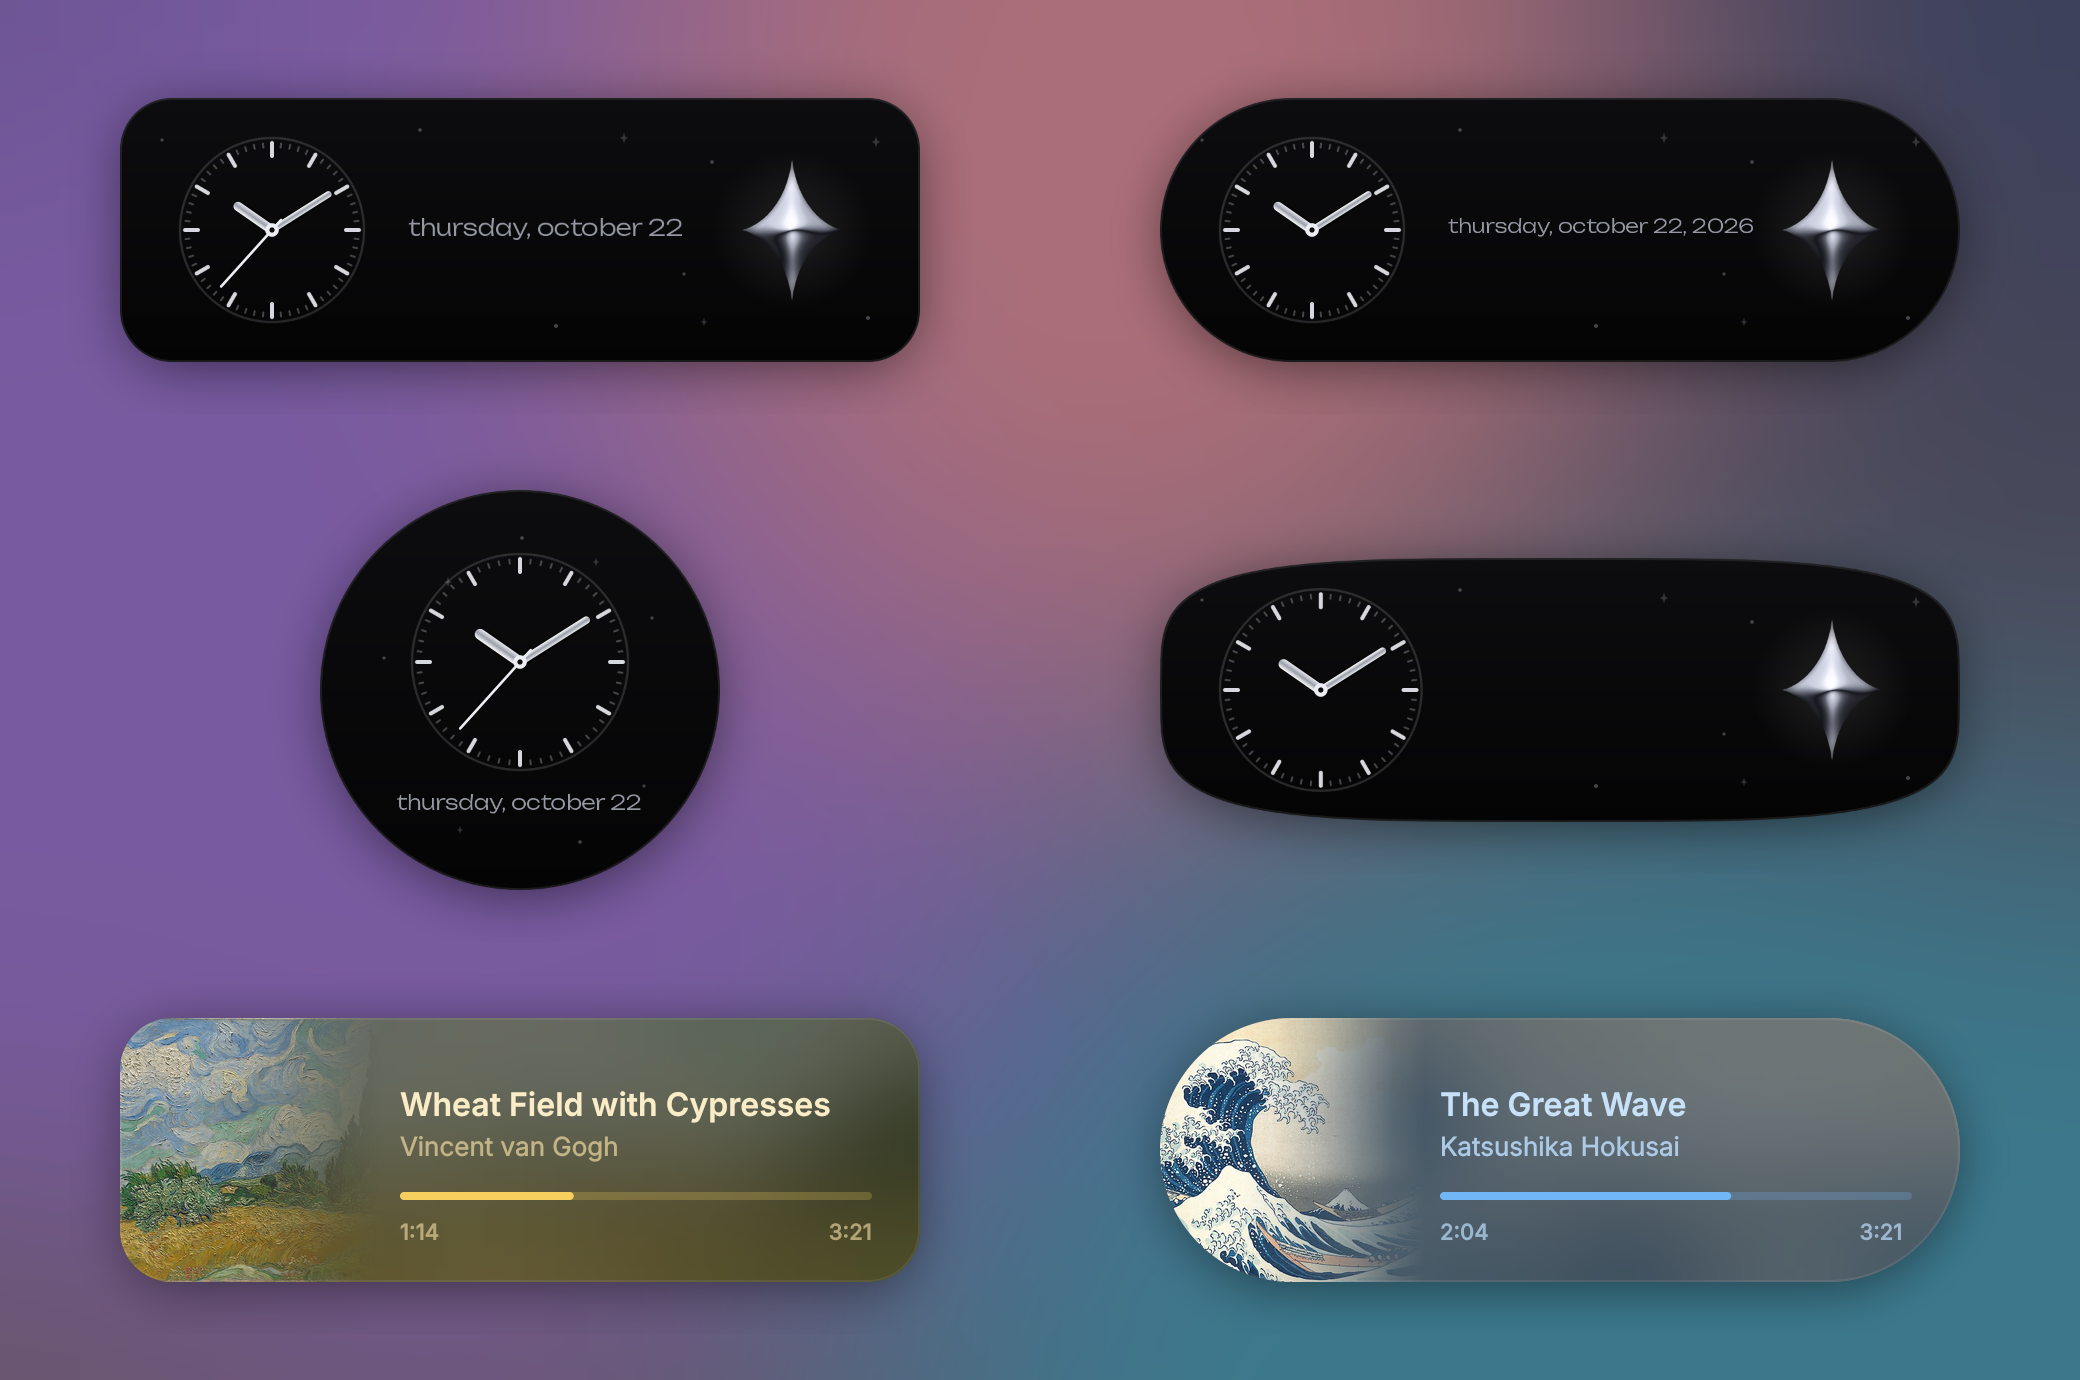
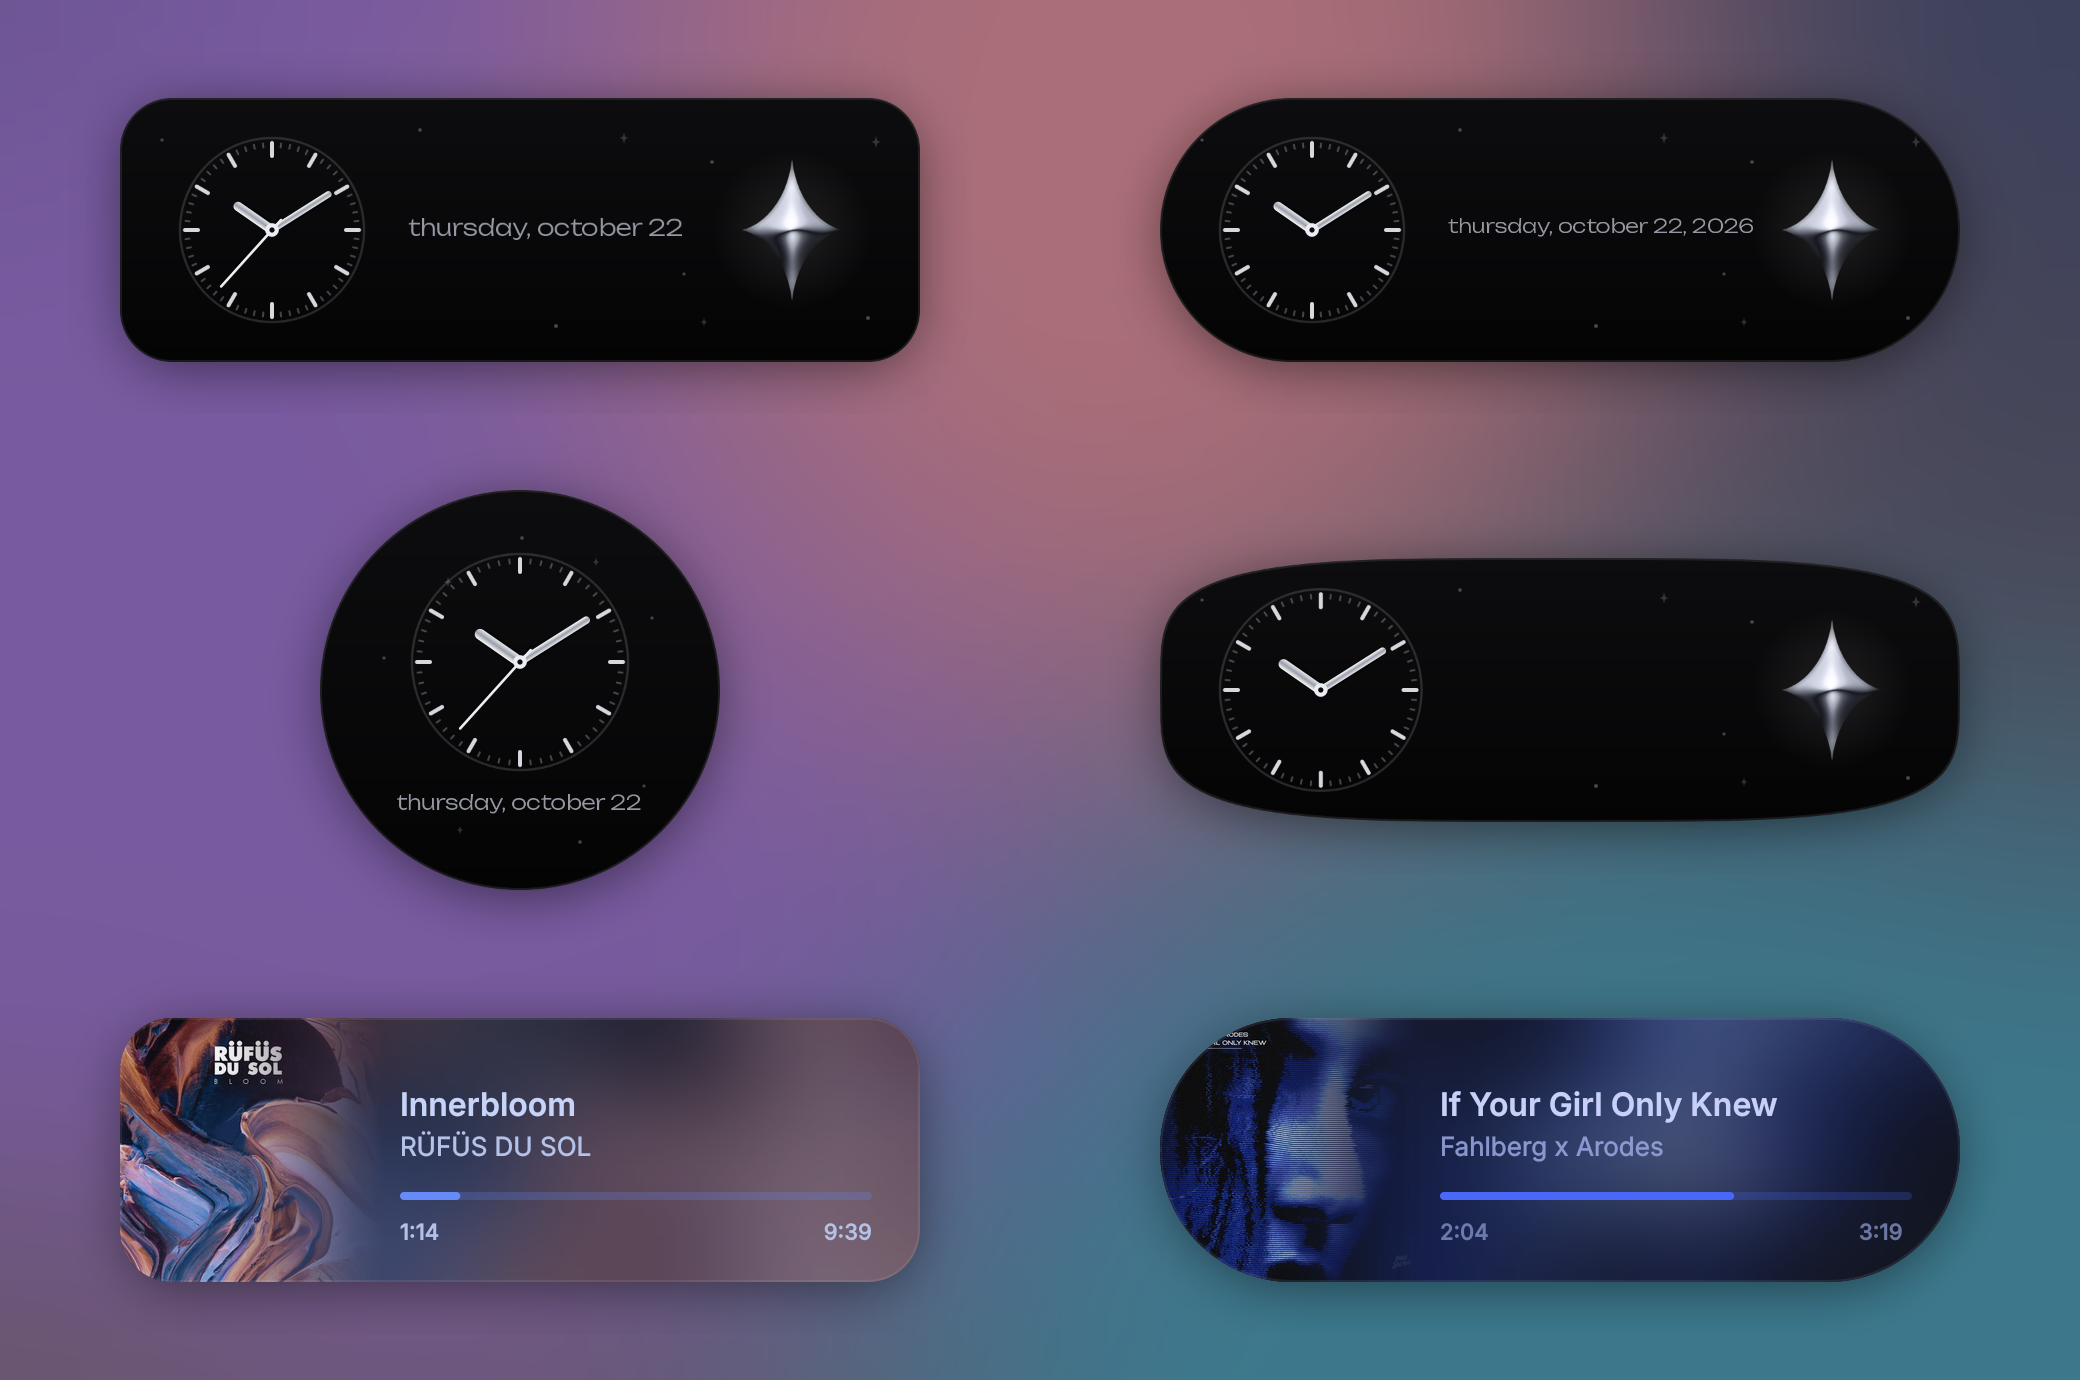
Add files via upload

Changed region(s): [[0.0312, 0.7167, 0.4688, 0.9348], [0.5312, 0.7167, 0.9688, 0.9348]]

diff --git a/bench/demo.py b/bench/demo.py
@@ -1,11 +1,12 @@
 """
 Makes the README pictures: docs/media/hero.png, docs/media/demo.gif and docs/media/shapes.png.
-Everything is drawn by the widgets' own drawing code, offscreen. The covers are public domain paintings
-from The Met (CC0). On Linux the text font is Inter, since Segoe UI is a Windows font.
+Everything is drawn by the widgets' own drawing code, offscreen. The songs are from my playlist and the album
+covers are read from data/demo/covers, which isn't in the repo. On Linux the text font is Inter, since Segoe UI
+is a Windows font.
 
     python bench/demo.py
 """
-import os, sys, io, json, math, datetime, urllib.request
+import os, sys, io, math, datetime
 
 HERE = os.path.dirname(os.path.abspath(__file__))
 ROOT = os.path.dirname(HERE)
@@ -20,59 +21,29 @@ from PyQt6.QtCore import QRectF, QPointF, QEasingCurve
 import drive
 from aura_draw import render
 
-ART = {  # Met object id: (song title shown on the card, artist line)
-    436535: ("Wheat Field with Cypresses", "Vincent van Gogh"),
-    45434: ("The Great Wave", "Katsushika Hokusai"),
-    438817: ("The Dance Class", "Edgar Degas"),
-    436947: ("Boating", "Edouard Manet"),
+ART = {  # cover file in data/demo/covers: (song title shown on the card, artist line)
+    "innerbloom": ("Innerbloom", "RÜFÜS DU SOL"),
+    "if-your-girl-only-knew": ("If Your Girl Only Knew", "Fahlberg x Arodes"),
+    "neverender": ("Neverender", "Justice & Tame Impala"),
+    "inner-light": ("Inner Light", "Elderbrook & Bob Moses"),
+    "daylight": ("Daylight (Matin Remix)", "TCTS & Hayley May"),
 }
+DUR = {"innerbloom": 579_000, "if-your-girl-only-knew": 199_000, "neverender": 267_000, "inner-light": 258_000, "daylight": 137_000}  # real lengths, ms
 DATA = os.path.join(ROOT, "data", "demo")
 OUT = os.path.join(ROOT, "docs", "media")
 
 
 def fetch():
-    os.makedirs(DATA, exist_ok=True)
-    credits = []
-    for oid in ART:
-        path = os.path.join(DATA, f"{oid}.jpg")
-        meta = json.loads(urllib.request.urlopen(
-            f"https://collectionapi.metmuseum.org/public/collection/v1/objects/{oid}", timeout=30).read())
-        assert meta["isPublicDomain"]
+    """The album covers, read from data/demo/covers/<name>.jpg. They aren't in the repo (data/ is ignored),
+    so drop your own covers there with these names before running this."""
+    covers = {}
+    for name in ART:
+        path = os.path.join(DATA, "covers", f"{name}.jpg")
         if not os.path.exists(path):
-            with open(path, "wb") as f:
-                f.write(urllib.request.urlopen(meta["primaryImageSmall"], timeout=60).read())
-        credits.append({"met_object_id": oid, "title": meta["title"], "artist": meta["artistDisplayName"],
-                        "date": meta["objectDate"], "url": meta["objectURL"], "license": "CC0, Met Open Access"})
-    with open(os.path.join(ROOT, "results", "demo_credits.json"), "w") as f:
-        json.dump(credits, f, indent=2)
-    return {oid: trimmed(os.path.join(DATA, f"{oid}.jpg")) for oid in ART}
-
-
-def trimmed(path):
-    """Some Met scans come with a black strip along one side. Cut it off, plus a hair more, so the covers
-    on the cards show painting all the way to the edge."""
-    im = Image.open(path).convert("RGB")
-    g = im.convert("L")
-    w, h = im.size
-    px = g.load()
-
-    def dark(line):
-        return sum(line) / len(line) < 40
-
-    l, t, r, b = 0, 0, w, h
-    while t < h // 4 and dark([px[x, t] for x in range(w)]):
-        t += 1
-    while b > h * 3 // 4 and dark([px[x, b - 1] for x in range(w)]):
-        b -= 1
-    while l < w // 4 and dark([px[l, y] for y in range(h)]):
-        l += 1
-    while r > w * 3 // 4 and dark([px[r - 1, y] for y in range(h)]):
-        r -= 1
-    m = max(2, int(0.006 * min(w, h)))
-    im = im.crop((l + m, t + m, r - m, b - m))
-    out = io.BytesIO()
-    im.save(out, "JPEG", quality=92)
-    return out.getvalue()
+            raise SystemExit(f"missing {path}, put the album cover there first")
+        with open(path, "rb") as f:
+            covers[name] = f.read()
+    return covers
 
 
 def wallpaper(w, h):
@@ -86,8 +57,41 @@ def wallpaper(w, h):
     return im.filter(ImageFilter.GaussianBlur(w / 12))
 
 
+def box_gif_frames(path, size=(440, 160), step=80, focus_y=0.8):
+    """Your own GIF for the box (data/demo/box.gif or box.webp), cropped to fill it the way the widget's fill mode does,
+    and resampled to one frame every 80 ms so it plays at its real speed in the demo. focus_y picks which part
+    stays in view when the height is cropped, like dragging the GIF inside the box."""
+    src = Image.open(path)
+    shots, times, t = [], [], 0
+    for i in range(getattr(src, "n_frames", 1)):
+        src.seek(i)
+        shots.append(src.convert("RGB"))
+        times.append(t)
+        d = src.info.get("duration") or 0
+        t += d if d > 10 else 100      # like browsers, a frame with no real duration shows for 100 ms
+    total = max(t, step)
+    frames = []
+    for k in range(int(total // step)):
+        j = max(i for i, s in enumerate(times) if s <= k * step)
+        im = shots[j]
+        s = max(size[0] / im.width, size[1] / im.height)
+        im = im.resize((round(im.width * s), round(im.height * s)), Image.Resampling.LANCZOS)
+        x, y = (im.width - size[0]) // 2, int((im.height - size[1]) * focus_y)
+        frames.append(im.crop((x, y, x + size[0], y + size[1])))
+    return frames
+
+
 def gif_frames(data, n=24, size=(440, 160)):
-    """A slow pan across a painting, saved as a real GIF and read back frame by frame with Qt."""
+    """A slow pan across a painting, saved as a real GIF and read back frame by frame with Qt.
+    If data/demo/box.gif (or box.webp) exists, that animation goes in the box instead."""
+    own = next((os.path.join(DATA, f) for f in ("box.gif", "box.webp") if os.path.exists(os.path.join(DATA, f))), None)
+    if own:
+        out = []
+        for im in box_gif_frames(own, size):   # straight to Qt, a GIF round trip would merge repeated frames
+            buf = io.BytesIO()
+            im.save(buf, "PNG")
+            out.append(QImage.fromData(buf.getvalue(), "PNG"))
+        return out
     im = Image.open(io.BytesIO(data)).convert("RGB")
     k = max(size[0] * 1.35 / im.width, size[1] * 1.35 / im.height)
     im = im.resize((int(im.width * k), int(im.height * k)), Image.Resampling.LANCZOS)
@@ -158,12 +162,12 @@ def main():
     card = music.Card()
     round_card = music.Card()
     round_card.set_look(music.Look({"shape": "circle"}))
-    round_track = music.Track(*ART[ids[1]], covers[ids[1]], look=round_card.look)
+    round_track = music.Track(*ART[ids[2]], covers[ids[2]], look=round_card.look)
     round_card.cur = round_track
-    round_card.dur_ms, round_card.pos_ms = 201_000, 74_000
+    round_card.dur_ms, round_card.pos_ms = DUR[ids[2]], 74_000
     ck = clock.ClockCard()
     gcard = gif.GifCard(440, 160)
-    frames = gif_frames(covers[ids[3]])
+    frames = gif_frames(covers[ids[4]])
     font = gif.pick_font(14, QFont.Weight.Medium)
     ck2 = clock.ClockCard()
     ck2.apply(dict(zip(("face", "shape", "seconds", "date"), ("analog", "pill", True, "weekday")),
@@ -187,7 +191,7 @@ def main():
             card.old, card.cur, card.t = tracks[0], tracks[1], ease((t - 1.4) / 1.4)
             if card.t >= 1:
                 card.old = None
-        card.dur_ms = 201_000 if t >= 1.4 else 245_000
+        card.dur_ms = DUR[ids[1]] if t >= 1.4 else DUR[ids[0]]
         card.pos_ms = (60_000 + t * 1000) if t < 1.4 else (2_000 + (t - 1.4) * 1000)
         card.playing = False
         card.hover = max(0.0, min(1.0, (t - 3.0) / 0.25)) * (1 - max(0.0, min(1.0, (t - 5.4) / 0.25)))
@@ -195,13 +199,13 @@ def main():
         if 3.6 <= t < 4.8:
             card.preview = 0.25 + 0.5 * ease((t - 3.6) / 0.9)
         elif t >= 4.8:
-            card.pos_ms = 0.75 * 201_000 + (t - 4.8) * 1000
+            card.pos_ms = 0.75 * DUR[ids[1]] + (t - 4.8) * 1000
         if scene and t >= 6.0:
             # back to the first song so the loop closes
             card.old, card.cur, card.t = tracks[1], tracks[0], ease((t - 6.0) / 1.4)
             if card.t >= 1:
                 card.old = None
-            card.dur_ms = 245_000
+            card.dur_ms = DUR[ids[0]]
             card.pos_ms = 60_000 + (t - 8.0) * 1000
         elif scene and t < 1.4:
             card.pos_ms = 60_000 + t * 1000
@@ -250,12 +254,13 @@ def shapes(music, clock, gif, covers, tracks, frames, font):
     """One picture of the shape settings: each widget in a few shapes."""
     ids = list(ART)
     cells = []
-    for shape, extra in (("pill", {}), ("squircle", {"text_size": 115}), ("square", {"border": "bold"}),
-                         ("circle", {})):
+    for n, (shape, extra) in enumerate((("pill", {}), ("squircle", {"text_size": 115}), ("square", {"border": "bold"}),
+                                        ("circle", {}))):
+        song = ids[1 + n]          # a different song in each shape
         c = music.Card()
         c.set_look(music.Look(dict(shape=shape, **extra)))
-        c.cur = music.Track(*ART[ids[2]], covers[ids[2]], look=c.look)
-        c.dur_ms, c.pos_ms = 198_000, 121_000
+        c.cur = music.Track(*ART[song], covers[song], look=c.look)
+        c.dur_ms, c.pos_ms = DUR[song], min(121_000, DUR[song] // 2)
         cells.append((c.size, music.M, c.paint))
     for shape, o in (("pill", {}), ("circle", {"locale": "fa_IR", "h24": True}), ("squircle", {"style": "flat"})):
         k = clock.ClockCard()
@@ -265,10 +270,20 @@ def shapes(music, clock, gif, covers, tracks, frames, font):
         base.update(o)
         k.apply(base)
         cells.append((k.size, clock.M, (lambda kk: lambda p: kk.paint(p, datetime.datetime(2026, 10, 22, 9, 5), 0.0))(k)))
-    for shape, size in (("circle", (200, 200)), ("pill", (440, 160))):
+    # a square GIF suits the round box, so data/demo/box_square.gif (or .webp) goes there when it exists
+    square = next((os.path.join(DATA, f) for f in ("box_square.gif", "box_square.webp")
+                   if os.path.exists(os.path.join(DATA, f))), None)
+    round_frame = frames[6 % len(frames)]
+    if square:
+        im = box_gif_frames(square, (200, 200), focus_y=0.5)
+        im = im[len(im) * 3 // 5]
+        buf = io.BytesIO()
+        im.save(buf, "PNG")
+        round_frame = QImage.fromData(buf.getvalue(), "PNG")
+    for shape, size, fr in (("circle", (200, 200), round_frame), ("pill", (440, 160), frames[6 % len(frames)])):
         g = gif.GifCard(*size)
         g.apply({"shape": shape, "radius": 26, "border": "thin", "mode": "fill", "shadow": True})
-        g.set_frame(frames[6])
+        g.set_frame(fr)
         cells.append(((size[0], size[1]), gif.M, (lambda gg: lambda p: gg.paint(p, font))(g)))
     cols, cw, chh = 3, 520, 300
     rows = (len(cells) + cols - 1) // cols

diff --git a/bench/features.py b/bench/features.py
@@ -54,7 +54,7 @@ def main():
         c = music.Card()
         c.set_look(music.Look(options("Widget", backdrop="blur", **kw)))
         c.cur = music.Track(*demo.ART[ids[i]], covers[ids[i]], look=c.look)
-        c.dur_ms, c.pos_ms = 201_000, 74_000 + i * 50_000
+        c.dur_ms, c.pos_ms = demo.DUR[ids[i]], 74_000 + i * 50_000
         cells.append((c.size, music.M, c.paint))
 
     cols, cw, chh = 2, 520, 230

diff --git a/README.md b/README.md
@@ -14,7 +14,7 @@ Aesthetic desktop widgets for Windows. A now playing card for Spotify that takes
 
 <img src="docs/media/settings.png" width="80%" alt="The settings window with its live preview">
 
-These are drawn by the widgets' own code, offscreen on Linux, so the text font is Inter instead of Windows' Segoe UI. The album covers are public domain paintings from The Met (Van Gogh, Hokusai, Degas and Manet, CC0, listed in `results/demo_credits.json`).
+These are drawn by the widgets' own code, offscreen on Linux, so the text font is Inter instead of Windows' Segoe UI. The songs are from my own playlist, shown with their real album covers, which belong to the artists and their labels (listed in `results/demo_credits.json`). The GIFs are fan art of Junji Ito's Uzumaki, and the wide one is by holique.
 
 ## Install
 
